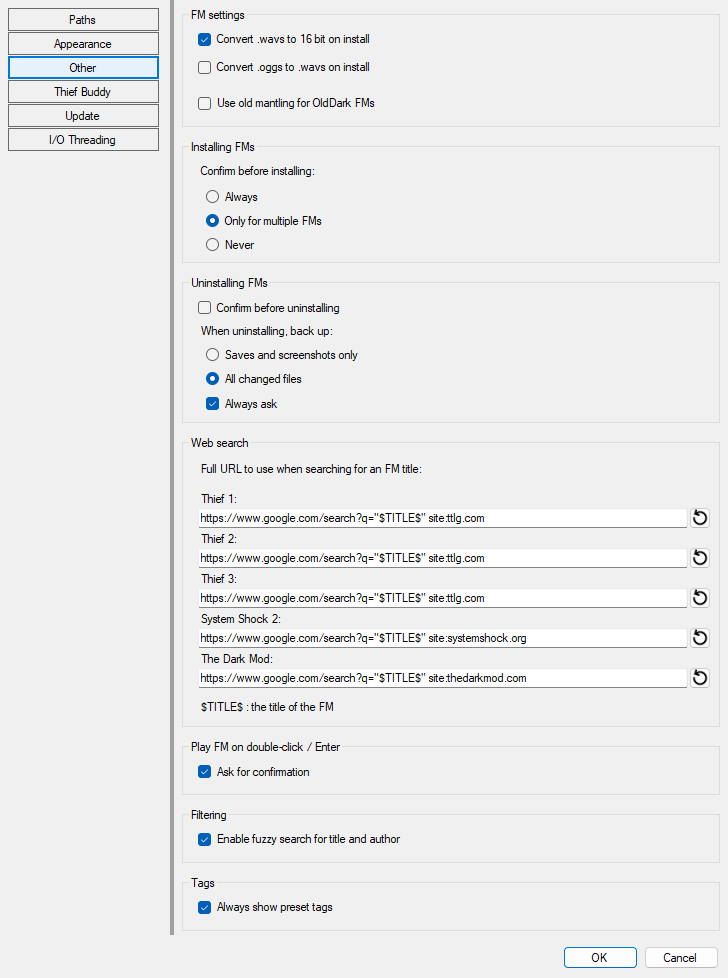
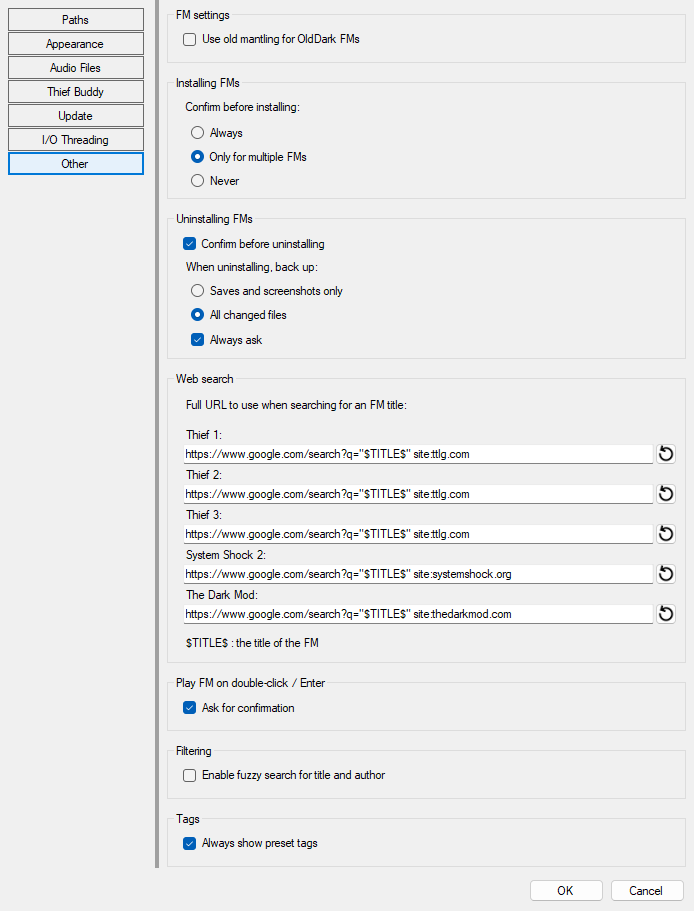
Update doc and update wording in Audio Files page

Changed region(s): [[0.0, 0.0, 0.9986, 0.9528], [0.7565, 0.9528, 0.9683, 1.0]]

diff --git a/docs/doc/English/AngelLoader documentation.html b/docs/doc/English/AngelLoader documentation.html
@@ -80,10 +80,11 @@
     <ul>
       <li><a href="#settings_paths_section">Paths</a></li>
       <li><a href="#settings_appearance_section">Appearance</a></li>
-      <li><a href="#settings_other_section">Other</a></li>
+      <li><a href="#settings_audio_files_section">Audio Files</a></li>
       <li><a href="#settings_thief_buddy_section">Thief Buddy</a></li>
       <li><a href="#settings_update_section">Update</a></li>
       <li><a href="#settings_io_threading_section">I/O Threading</a></li>
+      <li><a href="#settings_other_section">Other</a></li>
     </ul>
   </li>
   <li>
@@ -601,12 +602,9 @@ Some readmes may look better when displayed in a fixed-width font. This option o
 <p><img src="images/settings_appr_no_fm.png" /></p>
 Choose what style to display the "Play without FM" controls in.
 
-<h3><a id="settings_other_section"></a>Other section</h3>
+<h3><a id="settings_audio_files_section"></a>Audio Files section</h3>
 
-<p><img src="images/setup_other_tab.png" /></p>
-
-<h4><a id="use_old_mantle_for_olddark_fms"></a>Use old mantling for OldDark FMs</h4>
-NewDark introduced an improved mantling (ledge climbing) system that greatly increases reliability, but also allows mantling in many places that were not originally possible or intended in OldDark. Enabling this option will allow you to play OldDark missions "as intended" with regards to mantling. You can override this option per-FM in the <a href="#patch_tab">Patch & Customize tab</a>.
+<p><img src="images/settings_audio_files_tab.png" /></p>
 
 <h4><a id="settings_audio_conversion"></a>Convert .wavs to 16 bit on install</h4>
 Depending on your setup, .wav files that are higher than 16 bit may cause audio problems when played by Dark Engine games, such as intermittent or constant static noise. Converting all .wav files to 16 bit will solve this issue, and does not result in a perceptible loss of fidelity. Therefore, this option is turned on by default.<br>
@@ -616,32 +614,6 @@ Depending on your setup, .wav files that are higher than 16 bit may cause audio 
 Quoted from the FMSel manual:<br>
 <i>The game </i>can<i> play OGG files but it can under some circumstance cause short hiccups, on less powerful computers, performance heavy missions or with large OGG files. In such cases it might help to convert them to WAV files during installation</i>.<br>
 <b>This option has no effect for Thief: Deadly Shadows or The Dark Mod.</b>
-
-<h4>Installing FMs</h4>
-Choose whether to be prompted before installing FM(s).
-
-<h4>Confirm before uninstalling</h4>
-If this is enabled, you will be prompted for confirmation when uninstalling FM(s).
-
-<h4><a id="settings_backup"></a>Back up data when uninstalling</h4>
-When an FM is uninstalled, you will normally want to back up its saves and screenshots so they can be restored if you install it again. You can also choose to back up all changed files, in which case the backup will also include all files in the installed folder that have been added, removed, or modified as compared to the files in the archive. This is useful if you have added <a href="#dml_patches">.dml patches</a> to the FM, or made other modifications such as creating or modifying an fm.cfg file, fixing readables, etc. Because AngelLoader aims to be patch-friendly, this option is the default. You can also choose to always be asked if you want to back up data when uninstalling an FM.
-
-<h4><a id="settings_web_search"></a>Web search</h4>
-Here you can edit the URLs that will be used when searching for FMs on the web. The string <code>$TITLE$</code> can be placed anywhere in a URL to insert the fan mission's title into the final string. For instance, if the URL was
-
-<p><code>https://www.google.com/search?q="$TITLE$" site:ttlg.com</code></p>
-
-<p>and the currently selected FM's title was "Broken Triad", then the final URL actually passed to your web browser would be:</p>
-
-<p><code>https://www.google.com/search?q="Broken Triad" site:ttlg.com</code></p>
-
-<h4><a id="settings_play_on_dc_or_enter_ask"></a>Play on double-click / Enter</h4>
-When you double-click on an FM in the list or press Enter when the list is focused,
-the selected FM will be played. Check this box to enable asking for confirmation in that case,
-to prevent accidental playing from a stray click or key press.
-
-<h4>Enable fuzzy search for title and author</h4>
-When this option is enabled, the title and author filters will match approximately. For example, "kinstory" would match "King's Story". When this option is disabled, the filters will match exact text only.
 
 <h3><a id="settings_thief_buddy_section"></a>Thief Buddy section</h3>
 
@@ -674,6 +646,39 @@ Modern solid-state drives can often handle many requests at once, and allowing m
 can greatly increase performance for these drives. This can result in faster installs, scans, etc.
         
 <p />
+
+<h3><a id="settings_other_section"></a>Other section</h3>
+
+<p><img src="images/setup_other_tab.png" /></p>
+
+<h4><a id="use_old_mantle_for_olddark_fms"></a>Use old mantling for OldDark FMs</h4>
+NewDark introduced an improved mantling (ledge climbing) system that greatly increases reliability, but also allows mantling in many places that were not originally possible or intended in OldDark. Enabling this option will allow you to play OldDark missions "as intended" with regards to mantling. You can override this option per-FM in the <a href="#patch_tab">Patch & Customize tab</a>.
+
+<h4>Installing FMs</h4>
+Choose whether to be prompted before installing FM(s).
+
+<h4>Confirm before uninstalling</h4>
+If this is enabled, you will be prompted for confirmation when uninstalling FM(s).
+
+<h4><a id="settings_backup"></a>Back up data when uninstalling</h4>
+When an FM is uninstalled, you will normally want to back up its saves and screenshots so they can be restored if you install it again. You can also choose to back up all changed files, in which case the backup will also include all files in the installed folder that have been added, removed, or modified as compared to the files in the archive. This is useful if you have added <a href="#dml_patches">.dml patches</a> to the FM, or made other modifications such as creating or modifying an fm.cfg file, fixing readables, etc. Because AngelLoader aims to be patch-friendly, this option is the default. You can also choose to always be asked if you want to back up data when uninstalling an FM.
+
+<h4><a id="settings_web_search"></a>Web search</h4>
+Here you can edit the URLs that will be used when searching for FMs on the web. The string <code>$TITLE$</code> can be placed anywhere in a URL to insert the fan mission's title into the final string. For instance, if the URL was
+
+<p><code>https://www.google.com/search?q="$TITLE$" site:ttlg.com</code></p>
+
+<p>and the currently selected FM's title was "Broken Triad", then the final URL actually passed to your web browser would be:</p>
+
+<p><code>https://www.google.com/search?q="Broken Triad" site:ttlg.com</code></p>
+
+<h4><a id="settings_play_on_dc_or_enter_ask"></a>Play on double-click / Enter</h4>
+When you double-click on an FM in the list or press Enter when the list is focused,
+the selected FM will be played. Check this box to enable asking for confirmation in that case,
+to prevent accidental playing from a stray click or key press.
+
+<h4>Enable fuzzy search for title and author</h4>
+When this option is enabled, the title and author filters will match approximately. For example, "kinstory" would match "King's Story". When this option is disabled, the filters will match exact text only.
 
 <hr>
 

diff --git a/AngelLoader/Forms/Settings/SettingsForm.cs b/AngelLoader/Forms/Settings/SettingsForm.cs
@@ -1196,7 +1196,7 @@ internal sealed partial class SettingsForm : DarkFormBase, IEventDisabler
 
                 GetPageButton(SettingsTab.AudioFiles).Text = LText.SettingsWindow.AudioFiles_TabText;
 
-                AudioFilesPage.GlobalGroupBox.Text = LText.SettingsWindow.AudioFiles_Global;
+                AudioFilesPage.GlobalGroupBox.Text = LText.SettingsWindow.AudioFiles_AllNewDarkVersions;
 
                 AudioFilesPage.ConvertOGGsToWAVsOnInstallCheckBox.Text = LText.SettingsWindow.AudioFiles_ConvertOGGsToWAVsOnInstall;
                 MainToolTip.SetToolTip(AudioFilesPage.ConvertOGGsToWAVsOnInstallCheckBox, LText.SettingsWindow.AudioFiles_ConvertOGGsToWAVsOnInstall_ToolTip);

diff --git a/AngelLoader/Common/DataClasses/LocalizationData.cs b/AngelLoader/Common/DataClasses/LocalizationData.cs
@@ -876,7 +876,7 @@ internal sealed class LText_Class
         [FenGenBlankLine]
         internal readonly string AudioFiles_TabText = "Audio Files";
         [FenGenBlankLine]
-        internal readonly string AudioFiles_Global = "Global";
+        internal readonly string AudioFiles_AllNewDarkVersions = "All NewDark versions";
         internal readonly string AudioFiles_ConvertOGGsToWAVsOnInstall = "Convert .oggs to .wavs on install";
         internal readonly string AudioFiles_ConvertOGGsToWAVsOnInstall_ToolTip = "Fixes stuttering on some systems when loading .ogg files.";
         [FenGenBlankLine]
